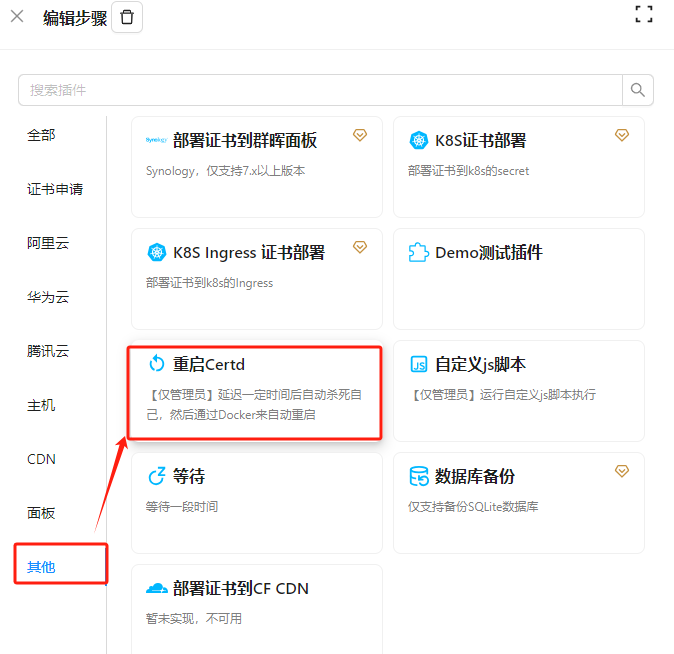
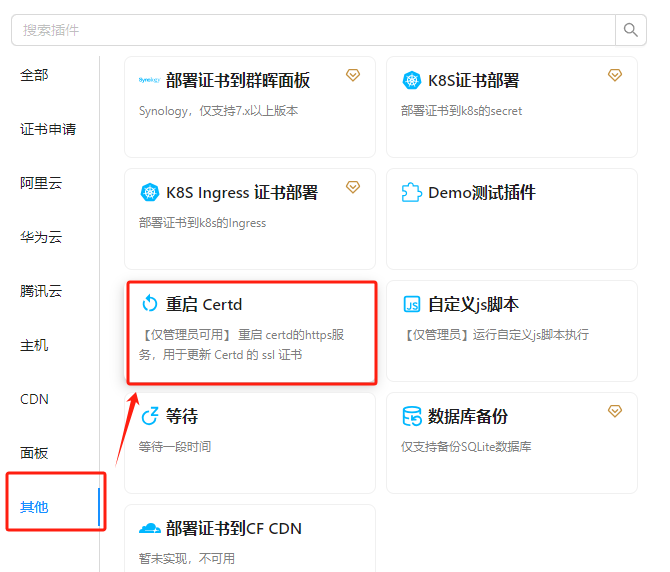
chore: 优化https server重启

diff --git a/packages/ui/certd-server/src/modules/auto/https/server.ts b/packages/ui/certd-server/src/modules/auto/https/server.ts
@@ -12,38 +12,67 @@ export type HttpsServerOptions = {
   cert: string;
 };
 
-export async function startHttpsServer(opts: HttpsServerOptions) {
-  logger.info('=========================================');
-  if (!opts.key || !opts.cert) {
-    logger.error('证书路径未配置，无法启动https服务，请先配置：koa.https.key和koa.https.cert');
-    return;
+export class HttpsServer {
+  server: https.Server;
+  opts: HttpsServerOptions;
+  constructor() {}
+
+  async restart() {
+    await this.close();
+    return this.start(this.opts);
   }
 
-  if (!fs.existsSync(opts.key) || !fs.existsSync(opts.cert)) {
-    logger.info('证书文件不存在,将生成自签名证书');
-    createSelfCertificate({
-      crtPath: opts.cert,
-      keyPath: opts.key,
+  async close() {
+    return new Promise((resolve, reject) => {
+      this.server.close(() => {
+        resolve(true);
+      });
     });
   }
-  logger.info('准备启动https服务');
-  const httpServer = https.createServer(
-    {
-      cert: fs.readFileSync(opts.cert),
-      key: fs.readFileSync(opts.key),
-    },
-    opts.app.callback()
-  );
-  const hostname = '0.0.0.0';
-  // A function that runs in the context of the http server
-  // and reports what type of server listens on which port
-  function listeningReporter() {
-    // `this` refers to the http server here
-    logger.info(`Https server is listening on https://${hostname}:${opts.port}`);
-  }
-  try {
-    httpServer.listen(opts.port, hostname, listeningReporter);
-  } catch (e) {
-    logger.error('启动https服务失败', e);
+
+  start(opts: HttpsServerOptions) {
+    if (!opts) {
+      logger.error('https配置不能为空');
+      return;
+    }
+    this.opts = opts;
+    logger.info('=========================================');
+    if (!opts.key || !opts.cert) {
+      logger.error('证书路径未配置，无法启动https服务，请先配置：koa.https.key和koa.https.cert');
+      return;
+    }
+
+    if (!fs.existsSync(opts.key) || !fs.existsSync(opts.cert)) {
+      logger.info('证书文件不存在,将生成自签名证书');
+      createSelfCertificate({
+        crtPath: opts.cert,
+        keyPath: opts.key,
+      });
+    }
+    logger.info('准备启动https服务');
+    const httpServer = https.createServer(
+      {
+        cert: fs.readFileSync(opts.cert),
+        key: fs.readFileSync(opts.key),
+      },
+      opts.app.callback()
+    );
+    this.server = httpServer;
+    const hostname = '0.0.0.0';
+    // A function that runs in the context of the http server
+    // and reports what type of server listens on which port
+    function listeningReporter() {
+      // `this` refers to the http server here
+      logger.info(`Https server is listening on https://${hostname}:${opts.port}`);
+    }
+
+    try {
+      httpServer.listen(opts.port, hostname, listeningReporter);
+      return httpServer;
+    } catch (e) {
+      logger.error('启动https服务失败', e);
+    }
   }
 }
+
+export const httpsServer = new HttpsServer();

diff --git a/packages/ui/certd-server/src/plugins/plugin-other/plugins/plugin-restart.ts b/packages/ui/certd-server/src/plugins/plugin-other/plugins/plugin-restart.ts
@@ -1,10 +1,11 @@
-import { AbstractTaskPlugin, IsTaskPlugin, pluginGroups, RunStrategy, TaskInput } from '@certd/pipeline';
+import { AbstractTaskPlugin, IsTaskPlugin, pluginGroups, RunStrategy } from '@certd/pipeline';
+import { httpsServer } from '../../../modules/auto/https/server.js';
 
 @IsTaskPlugin({
   name: 'RestartCertd',
-  title: '重启Certd',
+  title: '重启 Certd',
   icon: 'mdi:restart',
-  desc: '【仅管理员】延迟一定时间后自动杀死自己，然后通过Docker来自动重启',
+  desc: '【仅管理员可用】 重启 certd的https服务，用于更新 Certd 的 ssl 证书',
   group: pluginGroups.other.key,
   default: {
     strategy: {
@@ -13,26 +14,14 @@ import { AbstractTaskPlugin, IsTaskPlugin, pluginGroups, RunStrategy, TaskInput 
   },
 })
 export class RestartCertdPlugin extends AbstractTaskPlugin {
-  @TaskInput({
-    title: '延迟时间',
-    value: 30,
-    component: {
-      placeholder: '30',
-    },
-    helper: '延迟多少秒后执行',
-    required: true,
-  })
-  delay = 30;
   async onInstance() {}
   async execute(): Promise<void> {
     if (!this.isAdmin()) {
       throw new Error('只有管理员才能运行此任务');
     }
-    this.logger.info(`Certd 将在 ${this.delay} 秒后关闭`);
-    setTimeout(() => {
-      this.logger.info('关闭 Certd');
-      process.exit(1);
-    }, this.delay * 1000);
+    this.logger.info('Certd https server 将在 3 秒后重启');
+    await this.ctx.utils.sleep(3000);
+    await httpsServer.restart();
   }
 }
 new RestartCertdPlugin();

diff --git a/packages/core/basic/src/utils/util.request.ts b/packages/core/basic/src/utils/util.request.ts
@@ -86,7 +86,7 @@ export function createAxiosService({ logger }: { logger: Logger }) {
   service.interceptors.request.use(
     (config: any) => {
       logger.info(`http request:${config.url}，method:${config.method}`);
-      if (config.logParams !== false) {
+      if (config.logParams !== false && config.params) {
         logger.info(`params:${JSON.stringify(config.params)}`);
       }
       if (config.timeout == null) {
@@ -182,7 +182,7 @@ export function createAxiosService({ logger }: { logger: Logger }) {
 
 export const http = createAxiosService({ logger }) as HttpClient;
 export type HttpClientResponse<R> = any;
-export type HttpRequestConfig<D=any> = {
+export type HttpRequestConfig<D = any> = {
   skipSslVerify?: boolean;
   skipCheckRes?: boolean;
   logParams?: boolean;

diff --git a/packages/ui/certd-server/src/modules/auto/auto-z.ts b/packages/ui/certd-server/src/modules/auto/auto-z.ts
@@ -4,7 +4,7 @@ import { SysInstallInfo, SysSettingsService } from '@certd/lib-server';
 import { getVersion } from '../../utils/version.js';
 import dayjs from 'dayjs';
 import { Application } from '@midwayjs/koa';
-import { HttpsServerOptions, startHttpsServer } from './https/server.js';
+import { httpsServer, HttpsServerOptions } from './https/server.js';
 
 @Autoload()
 @Scope(ScopeEnum.Singleton)
@@ -41,7 +41,7 @@ export class AutoZPrint {
       logger.info('Https server is not enabled');
       return;
     }
-    await startHttpsServer({
+    httpsServer.start({
       ...this.httpsConfig,
       app: this.app,
     });

diff --git a/docs/guide/use/https/index.md b/docs/guide/use/https/index.md
@@ -17,20 +17,22 @@ CERTD_HTTPS_port=7002
 参考Certd顶部的创建证书流水线教程
 
 ### 2、配置复制到本机任务
+将证书复制到certd的证书安装位置
+
 ![](./images/1.png)
 ![](./images/2.png)
 
 ### 3、配置重启Certd任务
-:::warning
-1. 重启Certd插件，并不具备重启自己的能力，而是`杀死自己`，然后靠`Docker`来重启自己
-2. 源码部署情况下，需要通过`执行主机脚本`插件来自己写脚本重启`certd`
-3. 建议将本流水线的触发时间与其他流水线时间错开，避免重启时影响其他流水线的执行
-:::
-
+重启certd的https server，让证书生效
 ![img.png](./images/3.png)
+
 
 
 ### 4、配置定时任务
 每天定时执行，最终效果如下
 
 ![](./images/ok.png)
+
+:::warning   
+建议将本流水线的触发时间与其他流水线时间错开，避免重启时影响其他流水线的执行   
+:::
